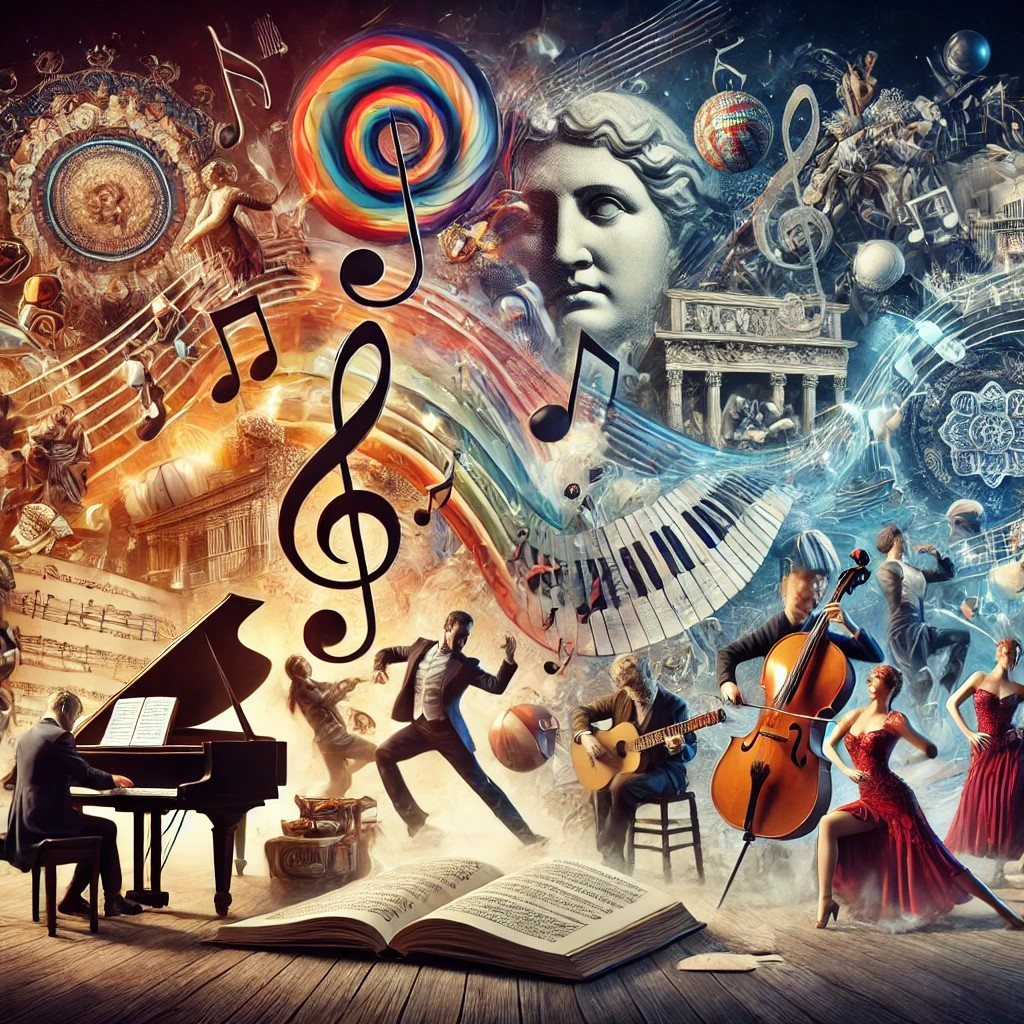
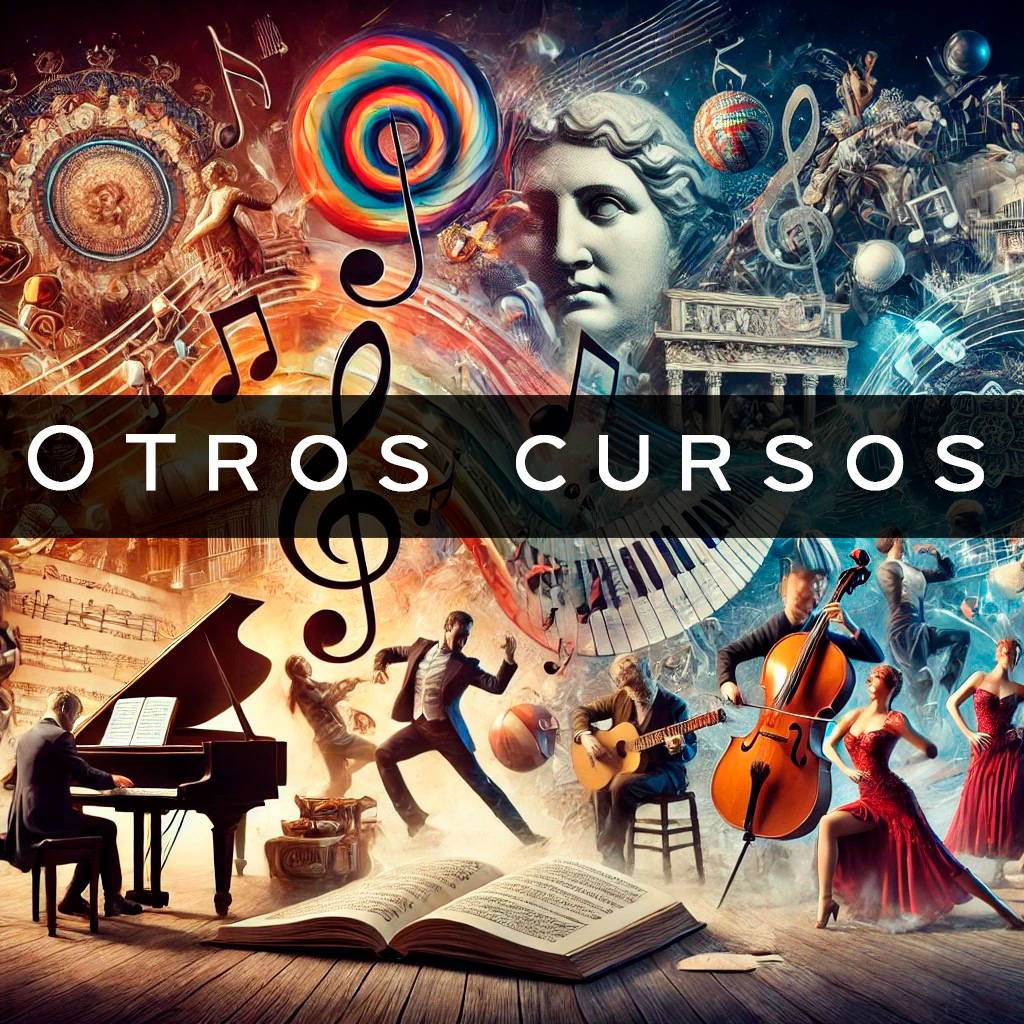
actualización de miniaturas

diff --git a/public/pages/calendario.html b/public/pages/calendario.html
@@ -10,29 +10,33 @@
         background-color: #1a0f0a;
         color: #d4a574;
         margin: 0;
-        padding: 20px;
+        padding: 10px;
         min-height: 100vh;
+        box-sizing: border-box;
       }
 
       .container {
-        max-width: 1400px;
+        width: 100%;
+        max-width: 100%;
         margin: 0 auto;
         display: flex;
-        gap: 20px;
+        gap: 15px;
         flex-wrap: wrap;
+        overflow-x: hidden;
       }
 
       .month {
         flex: 1;
-        min-width: 300px;
+        min-width: 280px;
+        max-width: calc(50% - 8px);
         background-color: rgba(41, 27, 23, 0.9);
         border-radius: 10px;
-        padding: 20px;
+        padding: 15px;
       }
 
       .month-header {
-        margin-bottom: 20px;
-        padding: 15px;
+        margin-bottom: 15px;
+        padding: 10px;
         background: linear-gradient(rgba(0, 0, 0, 0.4), rgba(0, 0, 0, 0.4)),
           url("https://hebbkx1anhila5yf.public.blob.vercel-storage.com/11-2024-9vRUE8b2vSmqweM2I7CJw1H9gdAt6k.png");
         background-size: cover;
@@ -43,7 +47,7 @@
       .month-header h2 {
         color: #ffd700;
         margin: 0;
-        font-size: 24px;
+        font-size: 1.5rem;
         text-shadow: 2px 2px 4px rgba(0, 0, 0, 0.5);
       }
 
@@ -55,19 +59,21 @@
 
       .weekday {
         text-align: center;
-        padding: 8px;
+        padding: 6px;
         font-weight: bold;
         color: #ffd700;
+        font-size: 0.9rem;
       }
 
       .day {
         aspect-ratio: 1;
         background-color: rgba(62, 39, 35, 0.5);
         border: 1px solid #4a2f2a;
-        padding: 8px;
-        min-height: 80px;
+        padding: 6px;
+        min-height: 60px;
         cursor: pointer;
         transition: background-color 0.3s;
+        overflow-y: auto;
       }
 
       .day:hover {
@@ -76,11 +82,12 @@
 
       .day-number {
         font-weight: bold;
-        margin-bottom: 5px;
+        margin-bottom: 4px;
+        font-size: 0.9rem;
       }
 
       .event {
-        font-size: 0.8em;
+        font-size: 0.8rem;
         padding: 2px 4px;
         margin: 2px 0;
         background-color: rgba(255, 215, 0, 0.1);
@@ -89,25 +96,30 @@
       }
 
       .add-event {
-        margin-top: 20px;
+        margin-top: 15px;
         background-color: rgba(41, 27, 23, 0.9);
-        padding: 20px;
+        padding: 15px;
         border-radius: 10px;
+        width: 100%;
+        max-width: 100%;
+        box-sizing: border-box;
       }
 
       .add-event h3 {
         color: #ffd700;
         margin-top: 0;
+        font-size: 1.2rem;
       }
 
       .form-group {
-        margin-bottom: 15px;
+        margin-bottom: 10px;
       }
 
       .form-group label {
         display: block;
-        margin-bottom: 5px;
+        margin-bottom: 4px;
         color: #d4a574;
+        font-size: 0.9rem;
       }
 
       input,
@@ -118,20 +130,134 @@
         border: 1px solid #4a2f2a;
         color: #d4a574;
         border-radius: 4px;
+        font-size: 0.9rem;
+        box-sizing: border-box;
       }
 
       button {
         background-color: #8b4513;
         color: #ffd700;
         border: none;
-        padding: 10px 20px;
+        padding: 8px 16px;
         border-radius: 4px;
         cursor: pointer;
         transition: background-color 0.3s;
+        font-size: 0.9rem;
       }
 
       button:hover {
         background-color: #a0522d;
+      }
+
+      .referencias .tooltip {
+        visibility: hidden;
+        width: 200px;
+        background-color: rgba(41, 27, 23, 0.9);
+        color: #d4a574;
+        text-align: left;
+        border-radius: 6px;
+        padding: 10px;
+        position: absolute;
+        z-index: 1;
+        top: 100%;
+        left: 50%;
+        margin-left: -100px;
+        opacity: 0;
+        transition: opacity 0.3s;
+      }
+
+      .referencias:hover .tooltip {
+        visibility: visible;
+        opacity: 1;
+      }
+
+      .referencias:hover .tooltip {
+        visibility: visible;
+        opacity: 1;
+      }
+
+      @media (max-width: 768px) {
+        .month {
+          min-width: 100%;
+          max-width: 100%;
+        }
+
+        .container {
+          gap: 10px;
+        }
+
+        .day {
+          min-height: 50px;
+        }
+      }
+
+      @media (max-width: 768px) {
+        body {
+          padding: 5px;
+        }
+
+        .container {
+          gap: 10px;
+          flex-direction: column; /* Asegura un diseño vertical */
+        }
+
+        .month {
+          min-width: 100%;
+          max-width: 100%;
+          margin: 5px 0;
+        }
+
+        .calendar-grid {
+          grid-template-columns: repeat(2, 1fr); /* Cambia a 2 columnas */
+        }
+
+        .day {
+          font-size: 0.8rem; /* Reduce tamaño en móviles */
+          min-height: 40px;
+          aspect-ratio: auto; /* Quita restricción fija */
+        }
+
+        .month-header h2 {
+          font-size: 1.2rem; /* Reduce el tamaño de encabezados */
+        }
+
+        input,
+        textarea {
+          font-size: 0.8rem;
+          padding: 6px;
+        }
+
+        button {
+          font-size: 0.8rem;
+          padding: 6px 12px;
+        }
+
+        .add-event {
+          padding: 10px;
+        }
+
+        .form-group label {
+          font-size: 0.8rem;
+        }
+
+        .referencias .tooltip {
+          font-size: 0.7rem; /* Ajusta tamaño de las referencias */
+        }
+      }
+
+      @media (max-width: 480px) {
+        .calendar-grid {
+          grid-template-columns: 1fr; /* Una columna en pantallas muy pequeñas */
+        }
+
+        .day {
+          min-height: 30px;
+          font-size: 0.7rem;
+        }
+
+        .referencias .tooltip {
+          width: 150px; /* Reduce el ancho de tooltips */
+        }
       }
     </style>
   </head>
@@ -185,6 +311,19 @@
         <textarea id="eventDescription" rows="3"></textarea>
       </div>
       <button onclick="addEvent()">Agregar Evento</button>
+    </div>
+
+    <div class="referencias">
+      Referencias
+      <span class="tooltip">
+        Ø = Bianca y Pablo<br />
+        TyM = Tiki y Meli<br />
+        YyD = Yesi y Dennis<br />
+        x2 = doble turno<br />
+        Cr = Cruceros<br />
+        CM = Casa Malbec<br />
+        DAM = DAM
+      </span>
     </div>
 
     <script>

diff --git a/public/pages/boletin-semanal.html b/public/pages/boletin-semanal.html
@@ -3,7 +3,7 @@
   <head>
     <meta charset="UTF-8" />
     <meta name="viewport" content="width=device-width, initial-scale=1.0" />
-    <title>Boletín No. 26 - UnderTango Fondo de Inversión 19/11/2024</title>
+    <title>Boletín No. 27 - UnderTango Fondo de Inversión 25/11/2024</title>
     <style>
       body {
         font-family: Arial, sans-serif;
@@ -115,25 +115,24 @@
   </head>
   <body>
     <header>
-      <h1>Boletín No. 26 - UnderTango Fondo de Inversión 19/11/2024</h1>
+      <h1>Boletín No. 27 - UnderTango Fondo de Inversión 25/11/2024</h1>
     </header>
     <div class="container">
       <div class="main">
         <div class="info-box">
           <div>
             <h2>CAJA NETA</h2>
-            <p class="large-text">AR$ 983,751.00</p>
-            <p class="bold-text green-text">
-              Variación semanal de la caja: +6.73%
+            <p class="large-text">AR$ 924,300.00</p>
+            <p class="bold-text red-text">
+              Variación semanal de la caja: -6.05%
             </p>
             <p class="bold-text green-text">
-              Variación mensual entre octubre y noviembre: +11.1%
+              Variación mensual entre octubre y noviembre: +4.38%
             </p>
           </div>
           <div>
             <h2>VALOR DE LA ACCIÓN p/u</h2>
-            <p class="large-text">AR$ 1,565.68</p>
-            <p class="bold-text green-text">Variación de la acción: +6.73%</p>
+            <p class="large-text">AR$ 1,471.34</p>
           </div>
         </div>
         <div class="chart">
@@ -160,9 +159,9 @@
         <div class="info-box">
           <div>
             <h2>RETRIBUCIÓN SEMANAL</h2>
-            <p class="large-text">Monto a retribuir: AR$ 33,000.00</p>
-            <p class="large-text">AR$ 52.55 por acción</p>
-            <p class="bold-text green-text">Variación por acción: +13.79%</p>
+            <p class="large-text">Monto a retribuir: AR$ 54,000.00</p>
+            <p class="large-text">AR$ 86.00 por acción</p>
+            <p class="bold-text green-text">Variación por acción: +63.62%</p>
           </div>
         </div>
       </div>
@@ -181,13 +180,14 @@
             "octubre",
             ["1era semana", "de noviembre"],
             ["2da semana", "de noviembre"],
+            ["3era semana", "de noviembre"],
           ],
           datasets: [
             {
               label: "Montos mensuales mayo-noviembre",
               data: [
                 169322, 273790, 488871, 722539, 951721.6, 885460, 921700,
-                983751,
+                983751, 924300,
               ],
               backgroundColor: [
                 "rgba(255, 159, 64, 0.8)",
@@ -198,6 +198,7 @@
                 "rgba(255, 159, 64, 1)",
                 "rgba(54, 162, 235, 0.8)",
                 "rgba(54, 162, 235, 1)",
+                "rgba(255, 99, 132, 0.8)",
               ],
               borderColor: [
                 "rgba(255, 159, 64, 1)",
@@ -208,6 +209,7 @@
                 "rgba(255, 159, 64, 1)",
                 "rgba(54, 162, 235, 1)",
                 "rgba(54, 162, 235, 1)",
+                "rgba(255, 99, 132, 1)",
               ],
               borderWidth: 1,
             },
@@ -275,25 +277,6 @@
           },
         },
         plugins: [ChartDataLabels],
-      });
-
-      // Distribution calculator
-      const totalShares = 628;
-      const distributionAmount = 33000;
-      const distributionPerShare = distributionAmount / totalShares;
-
-      // Calculate distribution for each investor
-      const investors = [
-        { name: "PABLO CIESLIK", shares: 340 },
-        { name: "BIANCA WAGNER", shares: 248 },
-        { name: "LUCIANO VALDEMARIN", shares: 40 },
-      ];
-
-      investors.forEach((investor) => {
-        investor.distribution = investor.shares * distributionPerShare;
-        console.log(
-          `${investor.name}: AR$ ${investor.distribution.toFixed(2)}`
-        );
       });
     </script>
   </body>
